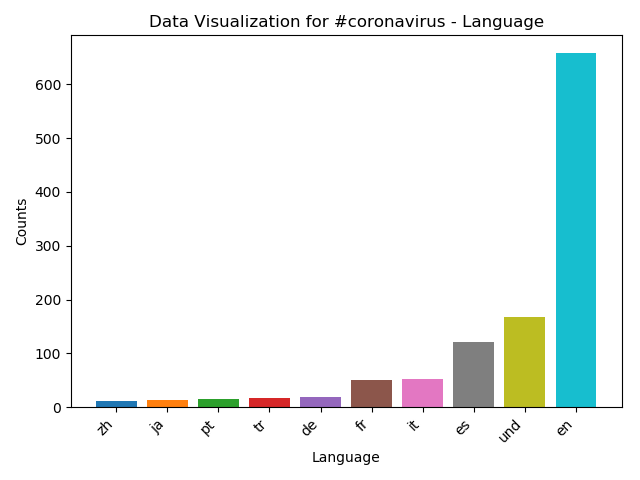
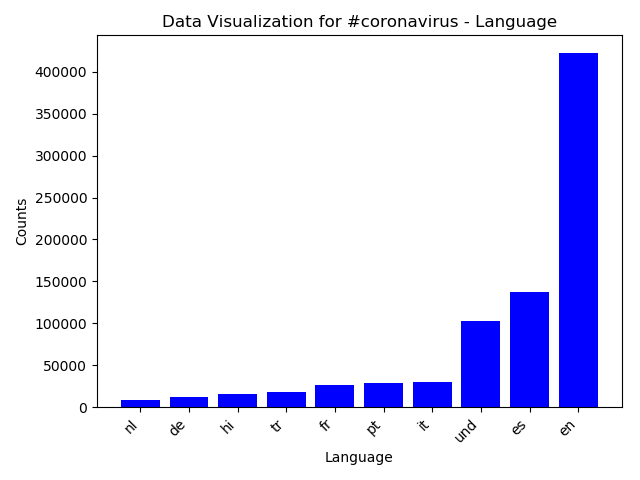
changed bar graph colors

diff --git a/src/visualize.py b/src/visualize.py
@@ -31,7 +31,7 @@ items = sorted(counts[args.key].items(), key=lambda item: (item[1],item[0]), rev
 
 for k,v in reversed(items[:10]):
     print(k,':',v)
-    plt.bar(k, v)
+    plt.bar(k, v, color='blue')
 
 # Plot the thing
 label_suffix = 'Country' if args.input_path.endswith('.country') else 'Language'
